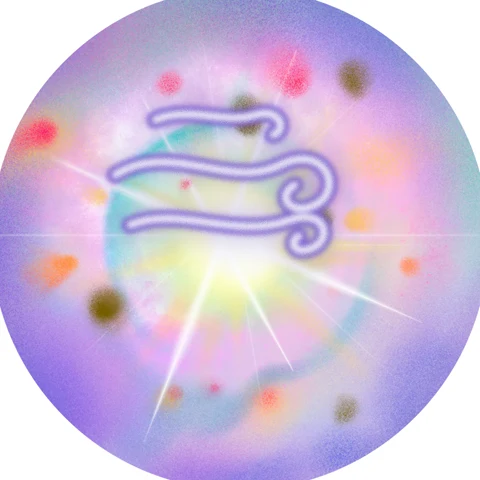
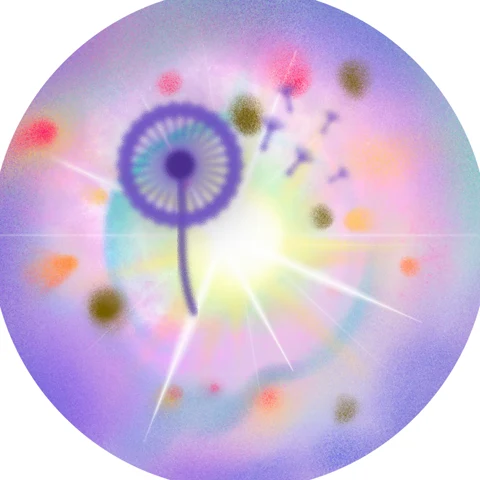
Explore bubbles, second take (her Canva AI tries rejected): a ring of 28 day-dots for Cycle guide, two orbs balanced on the heart for Balance hormones, a dandelion breathing out its seeds for Breathe

Changed region(s): [[0.2188, 0.1562, 0.7188, 0.6562], [0.6562, 0.2188, 0.7188, 0.2812]]

diff --git a/sw.js b/sw.js
@@ -1,5 +1,5 @@
 // Offline cache for the app shell. Bump VERSION when shipping changes.
-const VERSION = 'uts-v1349';
+const VERSION = 'uts-v1350';
 const SHELL = ['./', './index.html', './js/lotus.js', './styles.css', './manifest.json', './icons/icon-192.png', './icons/icon-512.png', './icons/apple-touch-icon.png', './icons/icon-64.png', './icons/icon-32.png', './icons/icon-maskable-512.png', './fonts/ballet-latin.woff2', './fonts/ballet-latin-ext.woff2',
   './js/app.js', './js/data.js', './js/cycle.js', './js/legal.js', './js/i18n.js', './js/icons.js', './js/cosmic.js', './js/astro.js', './js/moonguide.js', './js/moon3d.js', './js/figure.js', './js/figure3d.js', './js/torso.js', './js/torso3d.js', './js/photos.js', './js/seasonal.js', './js/world.js', './js/ground.js', './js/athlete.js', './js/bodymap.js', './js/molecules.js', './js/welcome3d.js', './js/teacup3d.js', './js/sfx.js', './js/ticketmotion.js', './js/sun.js', './js/account.js', './js/config.js', './images/planet.jpg', './images/gate-rose.webp', './images/lotus-menstrual.webp', './images/lotus-follicular.webp', './images/lotus-ovulatory.webp', './images/lotus-luteal.webp', './images/breath-bud.webp', './images/breath-bloom.webp', './images/period.png', './images/partner-cinema.webp', './images/partner-hands.jpg', './images/ground-roots.jpg', './images/ground/golden-roots.webp', './images/pixel-aura-0.png', './images/pixel-aura-1.png', './images/pixel-aura-2.png', './images/pixel-aura-3.png', './images/sun-moon.webp', './images/sun-moon.mp4', './images/tea-ginger.webp', './images/sun-moon-poster.webp', './images/rhythm-sun.webp', './images/move-stardust.mp4', './images/move-stardust.webp', './images/move-meditate.webp', './images/move-walk.webp', './images/move-yoga.webp', './images/move-sport.webp', './images/move-pilates.webp', './images/move-hiit.webp', './images/move-lift.webp', './images/season-veg.webp', './images/season-fruit.webp', './images/stress-meditate.mp4', './images/stress-meditate.webp', './images/stress-breathe.mp4', './images/stress-breathe.webp', './images/forest-path.jpg', './images/welcome-forest.jpg', './images/welcome-leaves.webp', './images/welcome-forest-bare.jpg', './images/intro-forest.jpg', './images/forest-calm.jpg', './images/tile-meditate.webp', './images/tile-ground.webp', './images/tile-walk.webp', './images/tile-yoga.webp', './images/tile-sport.webp', './images/tile-pilates.webp', './images/tile-hiit.webp', './images/tile-lift.webp', './images/purpose-body.jpg', './images/purpose-conceive.jpg', './images/purpose-after.jpg', './images/purpose-after-feet.jpg', './images/period-food.webp', './images/plate.webp', './images/read-lilies.webp', './images/read-seasons.webp', './models/body2.glb', './models/teacup.glb', './models/matcha.glb', './models/greentea.glb', './images/cup-matcha.webp', './models/soup.glb', './images/dish-soup.webp', './models/pho.glb', './images/dish-pho.webp', './models/miso.glb', './images/dish-miso.webp', './models/stew.glb', './images/dish-stew.webp', './models/veg-plate.glb', './models/salad-a.glb', './images/dish-salad-a.webp', './models/salad-b.glb', './images/dish-salad-b.webp', './images/dish-veg.webp', './models/taco.glb', './images/dish-taco.webp', './models/gyro.glb', './images/dish-gyro.webp', './models/marrow.glb', './images/dish-marrow.webp', './models/curry.glb', './images/dish-curry.webp', './models/steak.glb', './images/dish-steak.webp', './models/sweet-potato.glb', './images/dish-sweet-potato.webp', './models/mint-tea.glb', './images/cup-mint.webp', './models/chamomile.glb', './images/cup-chamomile.webp', './models/hibiscus.glb', './models/latte.glb', './models/coffee.glb', './models/broth.glb', './models/cortisol.glb', './images/cortisol-mol.webp', './models/moon.glb', './images/cup-chai.webp', './images/cup-hibiscus.webp', './images/cup-glass.webp', './sounds/forest-stream.m4a', './images/herbs/astragalus.svg', './images/herbs/red-dates.svg', './images/herbs/ginger.svg', './images/herbs/clove.svg', './images/herbs/cinnamon.svg', './images/herbs/goji.svg', './images/herbs/reishi.svg', './images/herbs/chaga.svg', './images/herbs/he-shou-wu.svg', './images/drinks/broth.svg', './images/drinks/cacao.svg', './images/drinks/chamomile-tea.svg', './images/drinks/coconut-water.svg', './images/drinks/coffee.svg', './images/drinks/ginger-tea.svg', './images/drinks/green-juice.svg', './images/drinks/hibiscus-tea.svg', './images/drinks/iced-matcha.svg', './images/drinks/lemon-water.svg', './images/drinks/matcha-latte.svg', './images/drinks/matcha.svg', './images/drinks/mineral-water.svg', './images/drinks/nettle-tea.svg', './images/drinks/raspberry-leaf-tea.svg', './images/drinks/red-date-tea.svg', './images/emoji/iron-ore.svg', './images/emoji/log-cramps.svg', './images/emoji/log-pelvic-pain.svg', './images/emoji/log-joint-pain.svg', './images/emoji/log-constipation.svg', './images/emoji/log-acne.svg', './images/emoji/log-brain-fog.svg', './images/emoji/log-unusual-colour.svg', './images/emoji/amla.svg', './images/emoji/apricot.svg', './images/emoji/artichoke.svg', './images/emoji/asian-pear.svg', './images/emoji/bamboo-shoot.svg', './images/emoji/bean-sprouts.svg', './images/emoji/bitter-gourd.svg', './images/emoji/black-trumpet.svg', './images/emoji/blackberry.svg', './images/emoji/bottle-gourd.svg', './images/emoji/brussels-sprouts.svg', './images/emoji/burdock.svg', './images/emoji/button-mushroom.svg', './images/emoji/cardoon.svg', './images/emoji/cassava.svg', './images/emoji/cauliflower.svg', './images/emoji/celeriac.svg', './images/emoji/chanterelle.svg', './images/emoji/chard.svg', './images/emoji/chayote.svg', './images/emoji/cloudberry.svg', './images/emoji/cranberry.svg', './images/emoji/currants.svg', './images/emoji/custard-apple.svg', './images/emoji/daikon.svg', './images/emoji/dandelion.svg', './images/emoji/dragon-fruit.svg', './images/emoji/drumsticks.svg', './images/emoji/elderberry.svg', './images/emoji/enoki.svg', './images/emoji/feijoa.svg', './images/emoji/fiddlehead.svg', './images/emoji/green-plum.svg', './images/emoji/guava.svg', './images/emoji/horseradish.svg', './images/emoji/jackfruit.svg', './images/emoji/jamun.svg', './images/emoji/jerusalem-artichoke.svg', './images/emoji/kale.svg', './images/emoji/king-oyster.svg', './images/emoji/kohlrabi.svg', './images/emoji/korean-melon.svg', './images/emoji/leek.svg', './images/emoji/lingonberry.svg', './images/emoji/lions-mane.svg', './images/emoji/long-beans.svg', './images/emoji/loquat.svg', './images/emoji/lotus-root.svg', './images/emoji/lychee.svg', './images/emoji/mangosteen.svg', './images/emoji/morel.svg', './images/emoji/okra.svg', './images/emoji/oyster-mushroom.svg', './images/emoji/papaya.svg', './images/emoji/parsnip.svg', './images/emoji/passion-fruit.svg', './images/emoji/persimmon.svg', './images/emoji/plum.svg', './images/emoji/porcini.svg', './images/emoji/prickly-pear.svg', './images/emoji/rambutan.svg', './images/emoji/raspberry.svg', './images/emoji/ridge-gourd.svg', './images/emoji/rosehip.svg', './images/emoji/salsify.svg', './images/emoji/samphire.svg', './images/emoji/sea-buckthorn.svg', './images/emoji/shiitake.svg', './images/emoji/spring-onion.svg', './images/emoji/starfruit.svg', './images/emoji/tamarind.svg', './images/emoji/taro.svg', './images/emoji/turnip.svg', './images/emoji/watercress.svg', './images/emoji/yuzu.svg', './images/emoji/almonds.webp', './images/emoji/asparagus.webp', './images/emoji/beetroot.webp', './images/emoji/black-sesame.webp', './images/emoji/cardamom.webp', './images/emoji/chia.webp', './images/emoji/cinnamon.webp', './images/emoji/fennel-seeds.webp', './images/emoji/fennel.webp', './images/emoji/fig.webp', './images/emoji/flaxseed.webp', './images/emoji/goji.webp', './images/emoji/hemp.webp', './images/emoji/liver.webp', './images/emoji/pomegranate.webp', './images/emoji/pumpkin-seeds.webp', './images/emoji/quince.webp', './images/emoji/radish.webp', './images/emoji/red-dates.webp', './images/emoji/rhubarb.webp', './images/emoji/sesame.webp', './images/emoji/sunflower-seeds.webp', './images/emoji/tahini.webp', './images/emoji/turmeric.webp', './images/emoji/walnuts.webp', './images/emoji/black-seed-oil.svg', './images/emoji/cacao.svg', './images/emoji/water.svg', './images/emoji/black-pepper.svg', './images/emoji/cumin.svg', './images/emoji/curry.svg', './images/emoji/dates.svg', './images/emoji/maple-syrup.svg', './images/emoji/mayonnaise.svg', './images/emoji/mustard.svg', './images/emoji/nutmeg.svg', './images/emoji/nutritional-yeast.svg', './images/emoji/paprika.svg', './images/emoji/tamari.svg', './images/emoji/toothpick.svg', './images/emoji/vanilla.svg', './images/bg/mist.webp', './images/bg/arch.webp', './images/bg/arch-band.webp', './images/bg/frame-band.webp', './images/bg/frame-top.webp', './images/bg/frame-bottom.webp', './images/bg/frame-side.webp', './images/bg/leaves.webp', './images/bg/lotus.webp', './images/bg/lotus-petals.webp', './images/bg/lotus-lines.webp', './images/bg/swirls.webp', './images/tea-glow-bg.webp', './images/herbs/astragalus-real.webp', './images/herbs/clove-real.webp', './images/herbs/chaga-real.webp', './images/herbs/reishi-real.webp', './images/herbs/he-shou-wu-photo.webp', './images/sf/astragalus.webp', './images/sf/elderberries.webp', './images/sf/walnuts.webp', './images/sf/iron.webp', './images/drinks/cup-covered.svg', './images/pets/bunny.svg', './images/pets/kitty.svg', './images/pets/bear.svg', './images/pets/panda.svg', './images/pets/fox.svg', './images/pets/frog.svg', './images/pets/chick.svg', './images/pets/hamster.svg'];
 

diff --git a/js/app.js b/js/app.js
@@ -2068,7 +2068,7 @@ function viewToday() {
 }
 // Explore: every button a full photo with a frosted label.
 function exploreGrid(info) {
-  // her own painted orbs (from Canva) with a little airbrushed motif: bee, cycle ring, balanced stones, breath
+  // her own painted orbs (from Canva) with a little airbrushed motif: bee, ring of 28 days, two orbs balanced on her heart, a dandelion breathing out
   const tiles = [['super', 'leaf', 'Superfoods', 'Spices & superfoods for your phase', 'images/xb/super.webp'], ['guide', 'chart', 'Cycle guide', `Day ${info.cd}, day by day`, 'images/xb/guide.webp'],
     ['relief', 'heart', 'Balance hormones', 'Step by step, fundamentals first', 'images/xb/relief.webp'],
     ['tea', 'cup', 'Tea guide', 'For every need', 'images/tea-ginger.webp'], ['breathe', 'leaf', 'Breathe', 'Meditate & breathe', 'images/xb/breathe.webp']];
